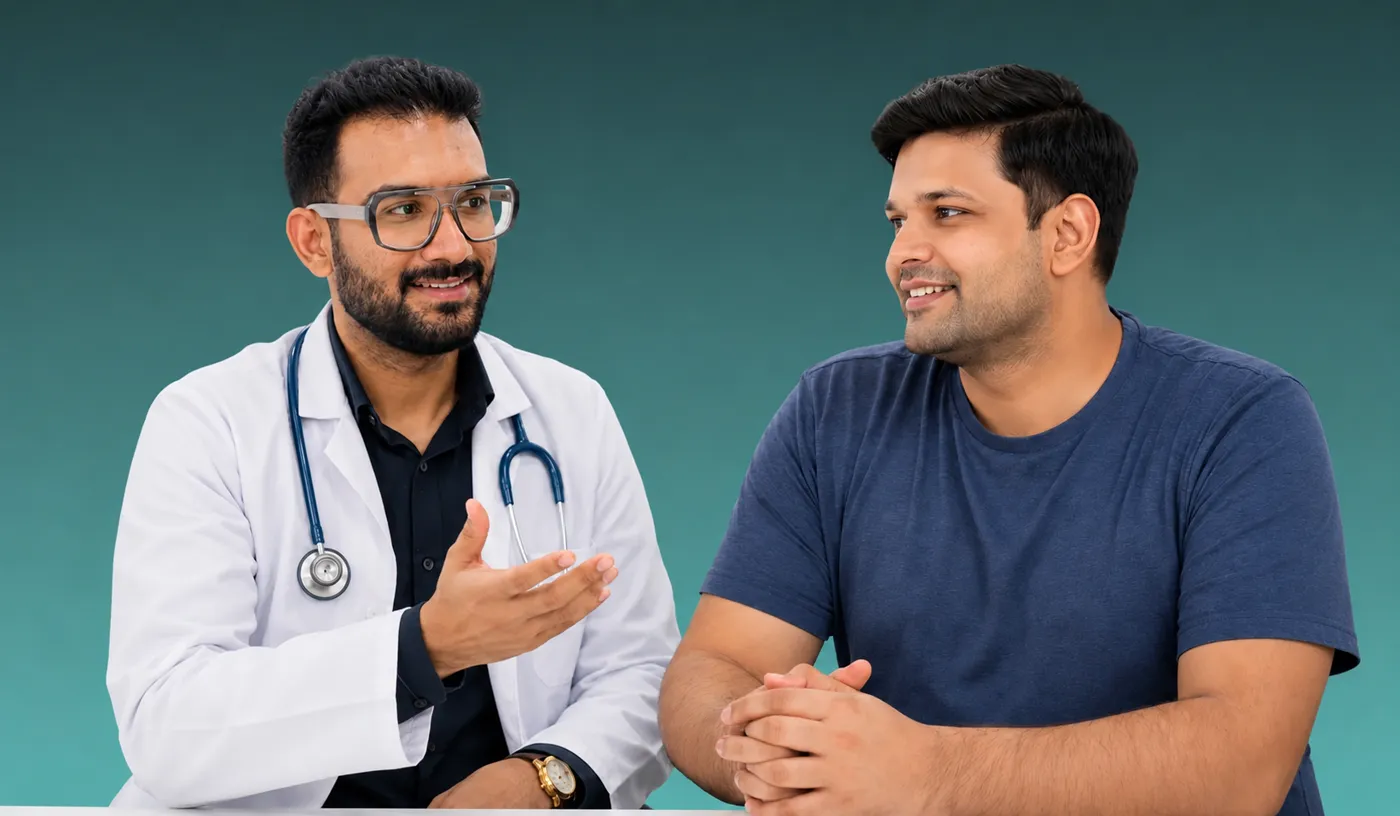
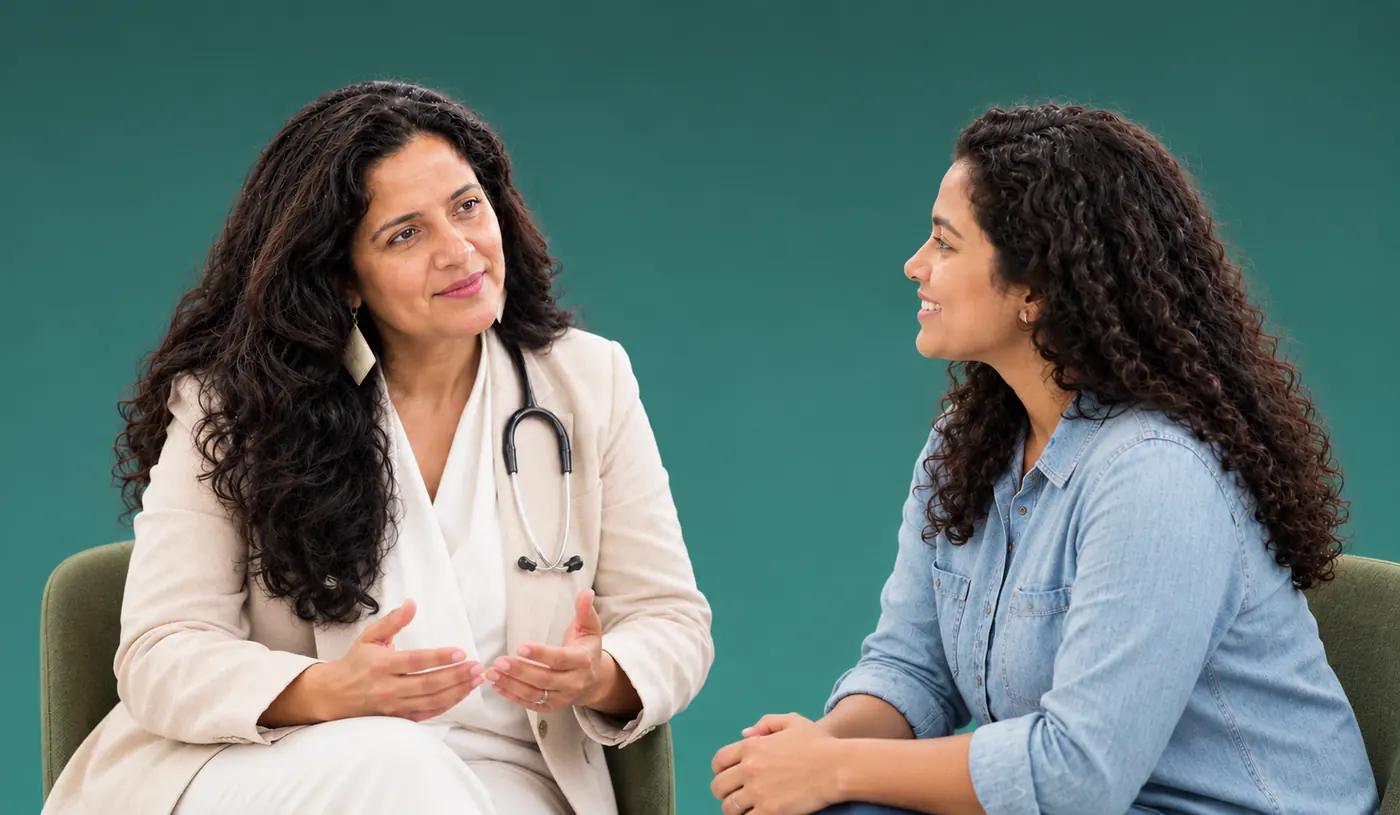
feat: coach page redesign with doctor card, new projection logic, TeleCRM payment status

diff --git a/app/api/users/coach-verify/route.ts b/app/api/users/coach-verify/route.ts
@@ -1,48 +1,111 @@
 export const runtime = "nodejs";
 
-/* Verifies a senior-health-coach payment and marks the TeleCRM lead as paid.
-   The lead already exists - /api/users/lead created it at the form - and
-   autoupdatelead matches on phone, so this updates that same lead.
+/* Verifies a senior-health-coach payment and tells TeleCRM, so callers can
+   see who has paid. The lead already exists - /api/users/lead created it at
+   the form - and both updates below find it by phone number.
 
-   It deliberately does NOT send `source`, which would overwrite the
-   questionnaire attribution recorded at the form. */
+   1. Lead fields (Async API, autoupdatelead): coach_call_payment = "Paid",
+      coach_call_amount, coach_call_paid_on, razorpay_payment_id. Callers see
+      them on the lead and can filter by them. The API names were created in
+      TeleCRM under Settings -> Lead Fields; a misspelt name is dropped by
+      TeleCRM without an error.
+   2. A PAYMENT activity on the lead's timeline (Sync API), next to calls and
+      notes. A payment ID is logged once per server instance, so a retried
+      verify does not add a second activity.
+
+   It does NOT change the lead's pipeline status, and does NOT send `source`
+   (which would overwrite the questionnaire attribution).
+
+   TeleCRM trouble never blocks the buyer: the payment is real once the
+   signature and order check pass, so the confirmation is shown regardless and
+   any CRM miss is logged. Razorpay keeps the payment either way. */
 
 import { NextRequest, NextResponse } from "next/server";
 import crypto from "crypto";
 import Razorpay from "razorpay";
 import { COACH_AMOUNT_INR, COACH_ORDER_SOURCE } from "../../../../content/users-next";
 
-const TELECRM_ENTERPRISE_ID = process.env.TELECRM_ENTERPRISE_ID;
-const TELECRM_API_TOKEN = process.env.TELECRM_API_TOKEN;
-const TELECRM_URL = TELECRM_ENTERPRISE_ID
-  ? `https://next-api.telecrm.in/enterprise/${TELECRM_ENTERPRISE_ID}/autoupdatelead`
-  : null;
+const ENTERPRISE = process.env.TELECRM_ENTERPRISE_ID;
+const ASYNC_TOKEN = process.env.TELECRM_API_TOKEN;
+const SYNC_TOKEN = process.env.TELECRM_SYNC_TOKEN;
+const ASYNC_URL = ENTERPRISE ? `https://next-api.telecrm.in/enterprise/${ENTERPRISE}/autoupdatelead` : null;
+const SYNC_BASE = ENTERPRISE ? `https://next.telecrm.in/autoupdate/v2/enterprise/${ENTERPRISE}` : null;
 
-async function pushToCRM(fields: Record<string, unknown>) {
-  if (!TELECRM_URL || !TELECRM_API_TOKEN) {
-    console.log("[Coach Verify] TeleCRM not configured. Payload:", fields);
-    return { ok: true };
+/* TeleCRM field API names, exactly as shown under Lead Fields -> Information. */
+const F = {
+  payment: "coach_call_payment",
+  amount: "coach_call_amount",
+  paidOn: "coach_call_paid_on",
+  paymentId: "razorpay_payment_id",
+} as const;
+
+async function updateLeadFields(phone91: string, paymentId: string, paidAt: number) {
+  if (!ASYNC_URL || !ASYNC_TOKEN) {
+    console.log("[Coach Verify] TeleCRM async not configured");
+    return false;
   }
   try {
-    const cleanFields = Object.fromEntries(
-      Object.entries(fields).filter(([, v]) => v !== "" && v !== null && v !== undefined)
-    );
-    const res = await fetch(TELECRM_URL, {
+    const res = await fetch(ASYNC_URL, {
       method: "POST",
-      headers: { "Content-Type": "application/json", Authorization: `Bearer ${TELECRM_API_TOKEN}` },
-      body: JSON.stringify({ fields: cleanFields }),
+      headers: { "Content-Type": "application/json", Authorization: `Bearer ${ASYNC_TOKEN}` },
+      body: JSON.stringify({
+        fields: {
+          phone: phone91,
+          [F.payment]: "Paid",
+          [F.amount]: COACH_AMOUNT_INR,
+          [F.paidOn]: paidAt,
+          [F.paymentId]: paymentId,
+        },
+      }),
+      signal: AbortSignal.timeout(8000),
     });
     if (!res.ok) {
-      const errBody = await res.text().catch(() => "");
-      console.error("[Coach Verify] TeleCRM rejected request:", res.status, errBody);
-      return { ok: false };
+      console.error("[Coach Verify] fields rejected:", res.status, (await res.text().catch(() => "")).slice(0, 300));
+      return false;
     }
-    return { ok: true };
-  } catch (err) {
-    console.error("[Coach Verify] TeleCRM push failed:", err);
-    return { ok: false };
+    return true;
+  } catch (e) {
+    console.error("[Coach Verify] fields push failed:", e);
+    return false;
   }
 }
+
+async function addPaymentActivity(phone91: string, paymentId: string) {
+  if (!SYNC_BASE || !SYNC_TOKEN) {
+    console.log("[Coach Verify] TELECRM_SYNC_TOKEN not set - payment activity skipped");
+    return false;
+  }
+  const headers = { "Content-Type": "application/json", Authorization: `Bearer ${SYNC_TOKEN}` };
+  try {
+    const sr = await fetch(`${SYNC_BASE}/lead/search?skip=0&limit=1`, {
+      method: "POST",
+      headers,
+      body: JSON.stringify({ fields: { phone: phone91 } }),
+      signal: AbortSignal.timeout(8000),
+    });
+    if (!sr.ok) throw new Error(`search ${sr.status}`);
+    const found = await sr.json();
+    const lead = Array.isArray(found?.data) ? found.data[0] : null;
+    if (!lead?.id) throw new Error("lead not found by phone");
+
+    const ar = await fetch(`${SYNC_BASE}/lead/${encodeURIComponent(lead.id)}/action`, {
+      method: "POST",
+      headers,
+      body: JSON.stringify({
+        actions: [{ type: "PAYMENT", status: "COMPLETED", currency: "INR", amount: String(COACH_AMOUNT_INR) }],
+      }),
+      signal: AbortSignal.timeout(8000),
+    });
+    if (!ar.ok) throw new Error(`action ${ar.status}: ${(await ar.text().catch(() => "")).slice(0, 200)}`);
+    return true;
+  } catch (e) {
+    console.error("[Coach Verify] payment activity failed:", e);
+    return false;
+  }
+}
+
+/* One payment activity per payment, even if verify is called twice. */
+const recentlyLogged = new Map<string, number>();
 
 export async function POST(request: NextRequest) {
   try {
@@ -70,8 +133,8 @@ export async function POST(request: NextRequest) {
 
     /* The signature proves Razorpay took this payment against this order. It
        does not prove the order was for this product, so read the order back.
-       Amount and source were set server-side in coach-order. The name and
-       phone come from the order too, not from the browser. */
+       Amount and source were set server-side in coach-order; the phone comes
+       from the order too, not from the browser. */
     const razorpay = new Razorpay({ key_id: keyId, key_secret: keySecret });
     const order = (await razorpay.orders.fetch(orderId)) as unknown as {
       amount: number | string;
@@ -84,19 +147,18 @@ export async function POST(request: NextRequest) {
 
     const phone = String(notes.phone || "").replace(/\D/g, "");
     if (phone) {
-      const crm = await pushToCRM({
-        name: notes.name || "",
-        phone: `91${phone}`,
-        product: "Senior health coach call",
-        amount: COACH_AMOUNT_INR,
-        lead_status: "paid",
-        razorpay_order_id: orderId,
-        razorpay_payment_id: paymentId,
-      });
-      /* The payment is real whether or not TeleCRM accepted the update, so
-         the buyer still gets a confirmation. The miss is logged, and the
-         payment is visible in the Razorpay dashboard either way. */
-      if (!crm.ok) console.error("[Coach Verify] PAID but CRM not updated:", orderId, paymentId, phone);
+      const phone91 = `91${phone}`;
+      const firstTime = !recentlyLogged.has(paymentId);
+      recentlyLogged.set(paymentId, Date.now());
+      if (recentlyLogged.size > 1000) recentlyLogged.clear();
+
+      const [fieldsOk, activityOk] = await Promise.all([
+        updateLeadFields(phone91, paymentId, Date.now()),
+        firstTime ? addPaymentActivity(phone91, paymentId) : Promise.resolve(true),
+      ]);
+      if (!fieldsOk || !activityOk) {
+        console.error("[Coach Verify] PAID but TeleCRM not fully updated:", { orderId, paymentId, phone, fieldsOk, activityOk });
+      }
     }
 
     return NextResponse.json({ success: true });

diff --git a/app/users/page.tsx b/app/users/page.tsx
@@ -300,25 +300,27 @@ export default function UsersFunnel() {
     : 80 + Math.min(1, (bmiNum - 40) / 10) * 20;
 
   const goalPick = answers.target as string | undefined;
+  /* 2-5 kg and 5-10 kg: a three-month graph to their stated goal. 10 kg or more: six months at 22% of body weight. */
+  const months = goalPick === "2-5 kg" || goalPick === "5-10 kg" ? 3 : 6;
   const goalKg =
-    goalPick === "2-5 kg" ? 5 : goalPick === "5-10 kg" ? 10 : Math.max(12, Math.round(weight * 0.18));
-  const loss = Math.min(goalKg, Math.round(weight * 0.22));
+    goalPick === "2-5 kg" ? 5 : goalPick === "5-10 kg" ? 10 : Math.ceil(weight * 0.22);
+  const loss = Math.min(goalKg, Math.ceil(weight * 0.22));
   const target = Math.max(45, weight - loss);
   const lossKg = weight - target;
-  const lossPct = Math.round((lossKg / weight) * 100);
+  const lossPct = months === 6 && target > 45 ? 22 : Math.round((lossKg / weight) * 100);
 
   const now = new Date();
-  const monthPts = Array.from({ length: 7 }, (_, i) => {
+  const monthPts = Array.from({ length: months + 1 }, (_, i) => {
     const d = new Date(now.getFullYear(), now.getMonth() + i, 1);
     return { label: MONTHS[d.getMonth()], y: d.getFullYear() };
   });
-  const targetDate = `${monthPts[6].label} ${monthPts[6].y}`;
+  const targetDate = `${monthPts[months].label} ${monthPts[months].y}`;
 
   const yTop = 12, yBot = 140, xL = 6, xR = 314;
   const hiV = weight + 2, loV = target - 4;
   const yFor = (v: number) => yTop + ((hiV - v) / (hiV - loV)) * (yBot - yTop);
   const pts = monthPts.map((m, i) => {
-    const t = i / 6;
+    const t = i / months;
     const v = weight - (weight - target) * (1 - Math.pow(1 - t, 1.9));
     return { x: Math.round(xL + t * (xR - xL)), y: Math.round(yFor(v) * 10) / 10, label: m.label, i };
   });
@@ -327,7 +329,7 @@ export default function UsersFunnel() {
     const p0 = pts[i - 1], p1 = pts[i], cx = (p0.x + p1.x) / 2;
     linePath += ` C ${cx} ${p0.y}, ${cx} ${p1.y}, ${p1.x} ${p1.y}`;
   }
-  const areaPath = `${linePath} L ${pts[6].x} ${yBot} L ${pts[0].x} ${yBot} Z`;
+  const areaPath = `${linePath} L ${pts[months].x} ${yBot} L ${pts[0].x} ${yBot} Z`;
   const gridVals = [Math.round(hiV), Math.round((hiV + loV) / 2), Math.round(loV)];
 
   /* Same curve as linePath, sampled at the pointer. nearIdx highlights the
@@ -337,8 +339,8 @@ export default function UsersFunnel() {
   if (hoverT !== null) {
     const hv = weight - (weight - target) * (1 - Math.pow(1 - hoverT, 1.9));
     const hy = yFor(hv);
-    nearIdx = Math.round(hoverT * 6);
-    const mo = monthPts[Math.min(6, Math.max(0, nearIdx))];
+    nearIdx = Math.round(hoverT * months);
+    const mo = monthPts[Math.min(months, Math.max(0, nearIdx))];
     hover = {
       on: true,
       left: Math.round(hoverT * 1000) / 10,
@@ -580,7 +582,7 @@ export default function UsersFunnel() {
                 weight-loss plan
               </h1>
               <p className="lede">
-                Six questions. We&apos;ll model your six-month curve and tell you if a health expert
+                Six questions. We&apos;ll model your weight-loss curve and tell you if a health expert
                 is likely to find you eligible.
               </p>
               <div className="shot" style={{ flex: 1, minHeight: 200, margin: "18px 0 2px" }}>
@@ -841,13 +843,13 @@ export default function UsersFunnel() {
           {step === S.GRAPH && (
             <div className="pane">
               <div style={{ textAlign: "center" }}>
-                <div style={{ fontSize: 16, color: "rgba(28,43,34,.6)", fontWeight: 600 }}>We can help you reach</div>
+                <div style={{ fontSize: 16, color: "rgba(28,43,34,.6)", fontWeight: 600 }}>{months === 3 ? "Your goal" : "We can help you reach"}</div>
                 <div style={{ fontWeight: 800, fontSize: "clamp(48px,13vw,68px)", color: "#2D5A4E", letterSpacing: "-.045em", lineHeight: 1, margin: "6px 0", animation: "fnPop .6s both" }}>
                   {target} kg*
                 </div>
                 <div style={{ fontWeight: 800, fontSize: 19, color: "#193231" }}>by {targetDate}</div>
                 <p style={{ fontSize: 15, lineHeight: 1.5, color: "rgba(28,43,34,.6)", margin: "14px 0 20px" }}>
-                  Modelled from your numbers {DASH} then sustained past the six months.
+                  Modelled from your numbers.
                 </p>
               </div>
 
@@ -877,7 +879,7 @@ export default function UsersFunnel() {
                         </div>
                       </>
                     )}
-                    <svg viewBox="0 0 320 160" preserveAspectRatio="none" style={{ width: "100%", height: 150, display: "block" }} aria-label="Projected weight over six months">
+                    <svg viewBox="0 0 320 160" preserveAspectRatio="none" style={{ width: "100%", height: 150, display: "block" }} aria-label={`Projected weight over ${months} months`}>
                       <defs>
                         <linearGradient id="fnFill" x1="0" y1="0" x2="0" y2="1">
                           <stop offset="0%" stopColor="#2D5A4E" stopOpacity=".22" />
@@ -895,12 +897,12 @@ export default function UsersFunnel() {
                         style={{ animation: "fnDraw 1.4s cubic-bezier(.2,.7,.2,1) both" }}
                       />
                       {pts.map((p) => (
-                        <circle key={p.i} cx={p.x} cy={p.y} r={p.i === 6 ? 5.5 : 4} fill={p.i === 6 ? "#C9A84C" : "#2D5A4E"} stroke="#F9F7F2" strokeWidth="2" vectorEffect="non-scaling-stroke" />
+                        <circle key={p.i} cx={p.x} cy={p.y} r={p.i === months ? 5.5 : 4} fill={p.i === months ? "#C9A84C" : "#2D5A4E"} stroke="#F9F7F2" strokeWidth="2" vectorEffect="non-scaling-stroke" />
                       ))}
                     </svg>
                     <div style={{ display: "flex", justifyContent: "space-between", marginTop: 8 }}>
                       {pts.map((p) => (
-                        <div key={p.i} style={{ fontSize: 11, fontWeight: 800, color: p.i === nearIdx ? "#2D5A4E" : p.i === 6 ? "#193231" : "rgba(28,43,34,.45)", lineHeight: 1, whiteSpace: "nowrap", transition: "color .2s" }}>
+                        <div key={p.i} style={{ fontSize: 11, fontWeight: 800, color: p.i === nearIdx ? "#2D5A4E" : p.i === months ? "#193231" : "rgba(28,43,34,.45)", lineHeight: 1, whiteSpace: "nowrap", transition: "color .2s" }}>
                           {p.label}
                         </div>
                       ))}

diff --git a/app/users/thankyou/page.tsx b/app/users/thankyou/page.tsx
@@ -26,7 +26,7 @@
 // Metadata (title, noindex) comes from the /users layout.
 
 import { useEffect, useState } from "react";
-import { AFTER, COACH, COACH_AMOUNT_INR, COACH_MRP_INR } from "../../../content/users-next";
+import { AFTER, COACH, COACH_AMOUNT_INR, COACH_MRP_INR, DOCTOR } from "../../../content/users-next";
 
 const TICK = "\u2713";
 const ARROW = "\u2192";
@@ -256,21 +256,31 @@ export default function ThankYouPage() {
         <div className="blob blob-a" />
         <div className="blob blob-b" />
 
-        <div className="topbar">
-          <span className="back" aria-hidden="true" style={{ opacity: 0, pointerEvents: "none" }}>
-            {BACK}
-          </span>
-          {/* eslint-disable-next-line @next/next/no-img-element */}
-          <img src="/logo-cropped.png" alt="Lean Protocol" />
-        </div>
+        {/* On the coach screen the logo sits beside the heading instead (below),
+            so the page does not spend a whole row on it. */}
+        {view !== "coach" && (
+          <div className="topbar">
+            <span className="back" aria-hidden="true" style={{ opacity: 0, pointerEvents: "none" }}>
+              {BACK}
+            </span>
+            {/* eslint-disable-next-line @next/next/no-img-element */}
+            <img src="/logo-cropped.png" alt="Lean Protocol" />
+          </div>
+        )}
 
         <div className="step" key={`post-${view}`}>
           {data !== null && view === "coach" && (
             <div className="pane">
-              <div className="badge">{COACH.badge}</div>
-              <h2 className="q-h2" style={{ margin: "0 0 8px" }}>
-                {COACH.title} <span className="serif">{COACH.titleSerif}</span>
-              </h2>
+              <div style={{ display: "flex", alignItems: "flex-start", justifyContent: "space-between", gap: 14 }}>
+                <div style={{ minWidth: 0 }}>
+                  <div className="badge">{COACH.badge}</div>
+                  <h2 className="q-h2" style={{ margin: "0 0 8px" }}>
+                    {COACH.title} <span className="serif">{COACH.titleSerif}</span>
+                  </h2>
+                </div>
+                {/* eslint-disable-next-line @next/next/no-img-element */}
+                <img src="/logo-cropped.png" alt="Lean Protocol" style={{ width: 64, height: "auto", flex: "none", marginTop: 2 }} />
+              </div>
               {COACH.sub && <p className="q-hint">{COACH.sub}</p>}
 
               <div className="panel" style={{ padding: "4px 18px", marginTop: 16 }}>
@@ -291,6 +301,31 @@ export default function ThankYouPage() {
                     </div>
                   </div>
                 ))}
+              </div>
+
+              <div className="shot" style={{ height: 200, flex: "none", marginTop: 14 }}>
+                {/* eslint-disable-next-line @next/next/no-img-element */}
+                <img
+                  src={DOCTOR.img}
+                  alt={`${DOCTOR.name}, ${DOCTOR.credentials}`}
+                  loading="lazy"
+                  style={{ objectPosition: "50% 50%" }}
+                />
+                <div
+                  className="shot-veil"
+                  style={{ background: "linear-gradient(180deg,rgba(25,50,49,0) 35%,rgba(25,50,49,.88))" }}
+                />
+                <div style={{ position: "absolute", left: 18, right: 18, bottom: 16 }}>
+                  <div style={{ fontSize: 10.5, letterSpacing: ".14em", fontWeight: 800, color: "#C8D9A7", textTransform: "uppercase", marginBottom: 4 }}>
+                    {DOCTOR.eyebrow}
+                  </div>
+                  <div style={{ fontWeight: 800, fontSize: 19, color: "#F9F7F2", letterSpacing: "-.02em", lineHeight: 1.2 }}>
+                    {DOCTOR.name}
+                  </div>
+                  <div style={{ fontSize: 13.5, fontWeight: 700, color: "#C8D9A7", marginTop: 2 }}>
+                    {DOCTOR.credentials}
+                  </div>
+                </div>
               </div>
 
               <div

diff --git a/content/users-next.ts b/content/users-next.ts
@@ -44,6 +44,17 @@ export const COACH = {
     "A health coach is not a doctor and does not prescribe. Any medication is decided by a doctor, only if you are eligible. Individual results vary.",
 };
 
+/* Doctor card on the coach page. Dr. Jain is on the Lean Protocol doctor
+   panel; he is NOT the person on the coach call, so the card is labelled as
+   the panel. The photo must be a real photo of Dr. Jain, used with his
+   consent - a name under a picture reads as "this is him". */
+export const DOCTOR = {
+  eyebrow: "From our doctor panel",
+  name: "Dr. Nishant Jain",
+  credentials: "MD, DM Endocrinology",
+  img: "/journey/doctor-nishant-jain.webp",
+};
+
 export const AFTER = {
   paidTitle: "Congratulations,",
   paidTitleSerif: "you are booked.",
